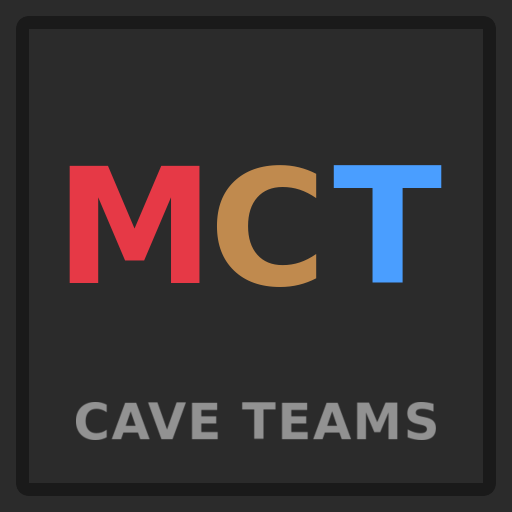
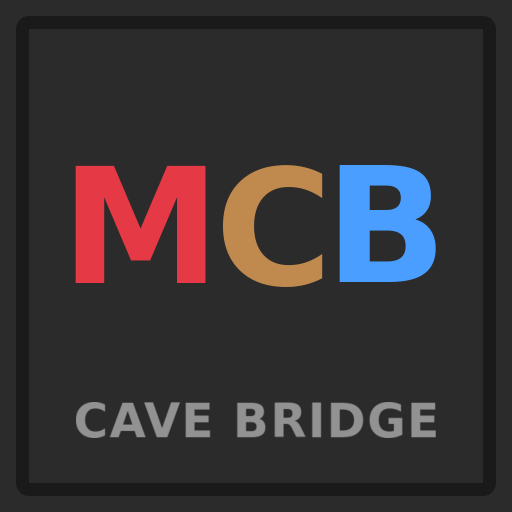
Rename to mts-cave-bridge: MTS Bridge for The Cave
The mod, its remote interface (mts-cave-bridge-adapter), its map setting,
locale section, test mods and repo all carry the new name. Never released
under the old one, so no migration is needed.

diff --git a/docs/portal.md b/docs/portal.md
@@ -1,14 +1,14 @@
-# Cave Teams (MTS)
+# MTS Bridge for The Cave
 
 > Every team digs its own cave.
 
-[![Discord](https://img.shields.io/badge/Discord-join%20the%20server-5865F2?logo=discord&logoColor=white)](https://discord.gg/tWz4FT74pH) [![GitHub](https://img.shields.io/badge/GitHub-source-181717?logo=github&logoColor=white)](https://github.com/bits-orio/mts-cave-teams)
+[![Discord](https://img.shields.io/badge/Discord-join%20the%20server-5865F2?logo=discord&logoColor=white)](https://discord.gg/tWz4FT74pH) [![GitHub](https://img.shields.io/badge/GitHub-source-181717?logo=github&logoColor=white)](https://github.com/bits-orio/mts-cave-bridge)
 
-Cave Teams requires [Multi-Team Support](https://mods.factorio.com/mod/multi-team-support) and [The Cave](https://mods.factorio.com/mod/the-cave), and lets a server run them together. Each team claims a slot in the MTS landing pen and lands in its own copy of the cave, with its own Main Train or shelter, its own research and its own enemies. Teams race on the same map without ever meeting underground.
+This bridge requires [Multi-Team Support](https://mods.factorio.com/mod/multi-team-support) and [The Cave](https://mods.factorio.com/mod/the-cave), and lets a server run them together. Each team claims a slot in the MTS landing pen and lands in its own copy of the cave, with its own Main Train or shelter, its own research and its own enemies. Teams race on the same map without ever meeting underground.
 
 ## Status
 
-Tested on a server with joined clients on Factorio 2.1.23, with Multi-Team Support 0.7.10 and The Cave 3.3.6: the default mode, Train Interiors and Shelter Defense, with and without Space Age. CAVETORIO is a single-force mode of The Cave and stays that way. Report anything odd on [Discord](https://discord.gg/tWz4FT74pH) or in the [issue tracker](https://github.com/bits-orio/mts-cave-teams/issues).
+Tested on a server with joined clients on Factorio 2.1.23, with Multi-Team Support 0.7.10 and The Cave 3.3.6: the default mode, Train Interiors and Shelter Defense, with and without Space Age. CAVETORIO is a single-force mode of The Cave and stays that way. Report anything odd on [Discord](https://discord.gg/tWz4FT74pH) or in the [issue tracker](https://github.com/bits-orio/mts-cave-bridge/issues).
 
 ## Quick start
 
@@ -41,11 +41,11 @@ Part of the MTS family:
 
 ## Links
 
-- [README](https://github.com/bits-orio/mts-cave-teams/blob/main/README.md)
+- [README](https://github.com/bits-orio/mts-cave-bridge/blob/main/README.md)
 - [Community Discord](https://discord.gg/tWz4FT74pH)
 
 ## Development
 
-Developed with AI coding assistants alongside human review and in-game testing. Issues and pull requests are welcome on [GitHub](https://github.com/bits-orio/mts-cave-teams).
+Developed with AI coding assistants alongside human review and in-game testing. Issues and pull requests are welcome on [GitHub](https://github.com/bits-orio/mts-cave-bridge).
 
 License: MIT

diff --git a/README.md b/README.md
@@ -1,4 +1,4 @@
-# MTS Cave Teams
+# MTS Bridge for The Cave
 
 Plays [The Cave](https://mods.factorio.com/mod/the-cave) with [Multi-Team Support (MTS)](https://mods.factorio.com/mod/multi-team-support): every team digs its own copy of the cave. Neither mod knows the other; this one connects them.
 
